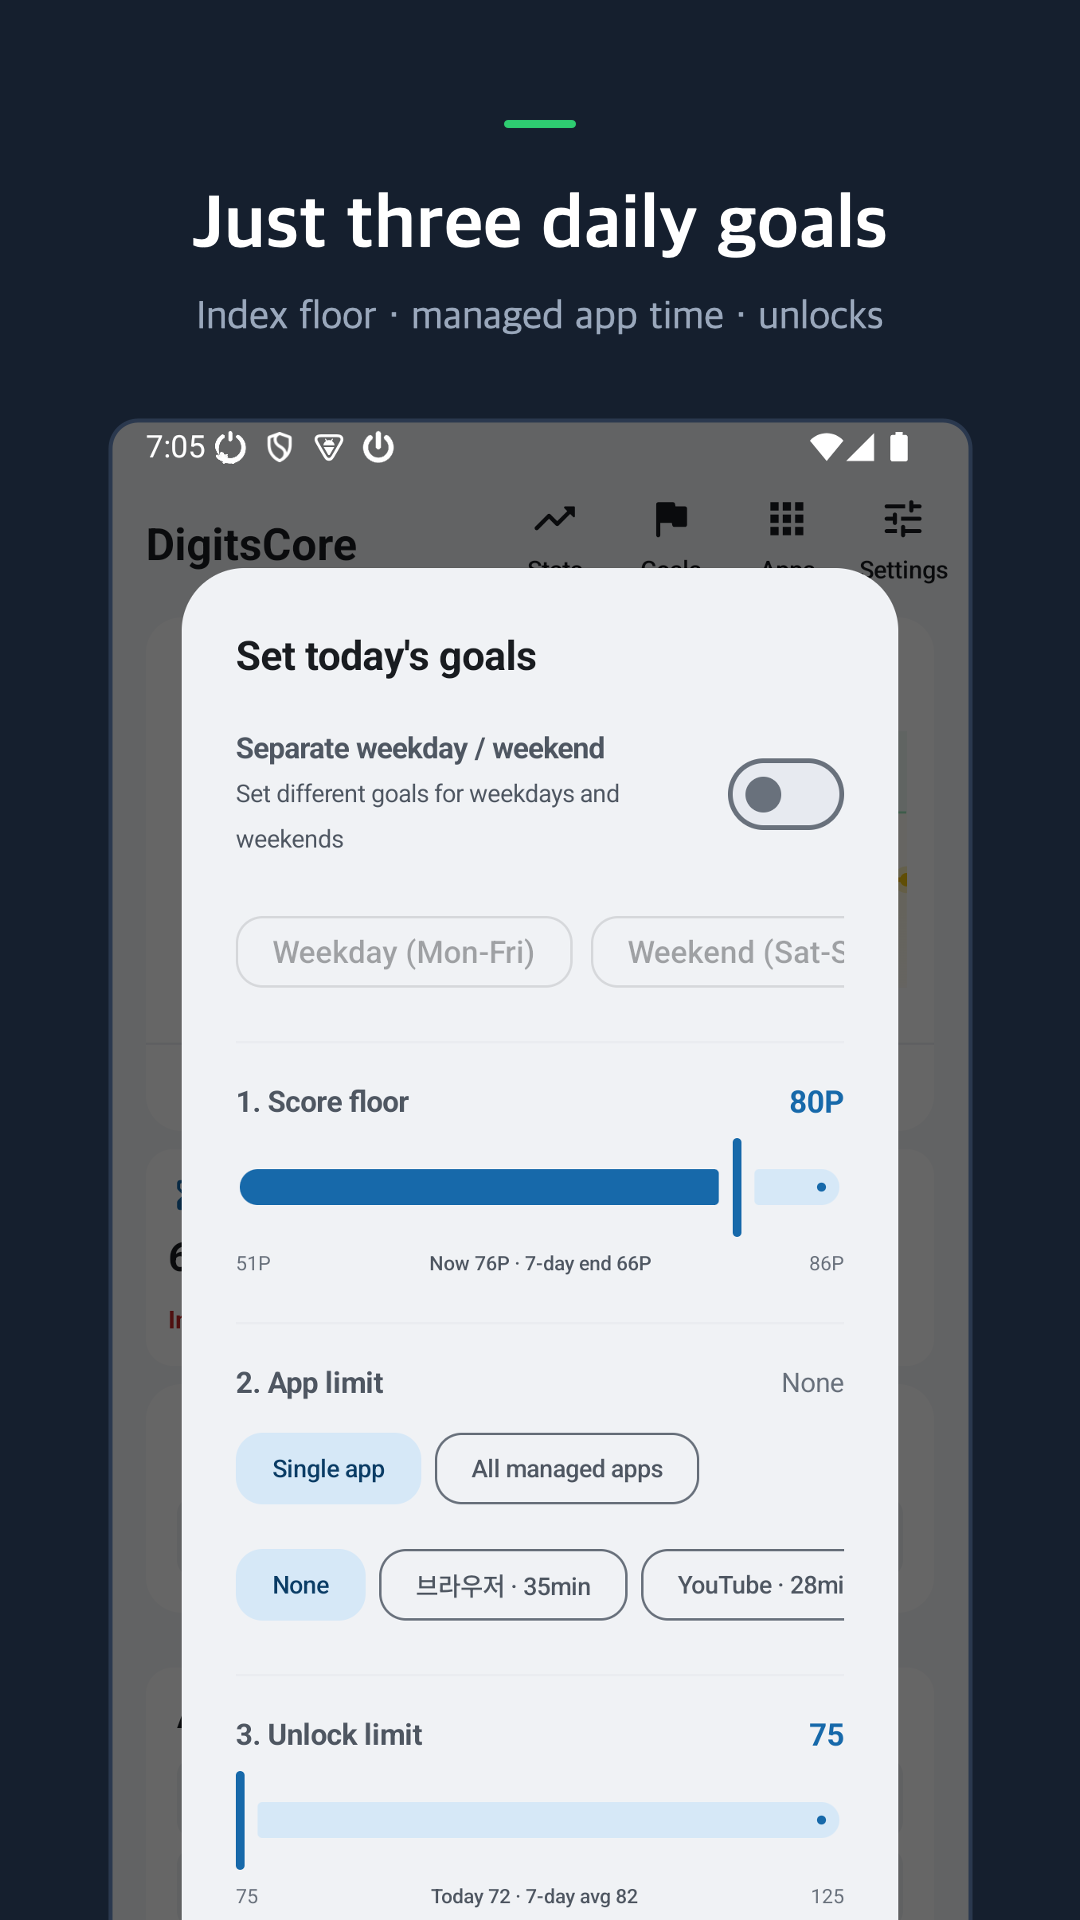
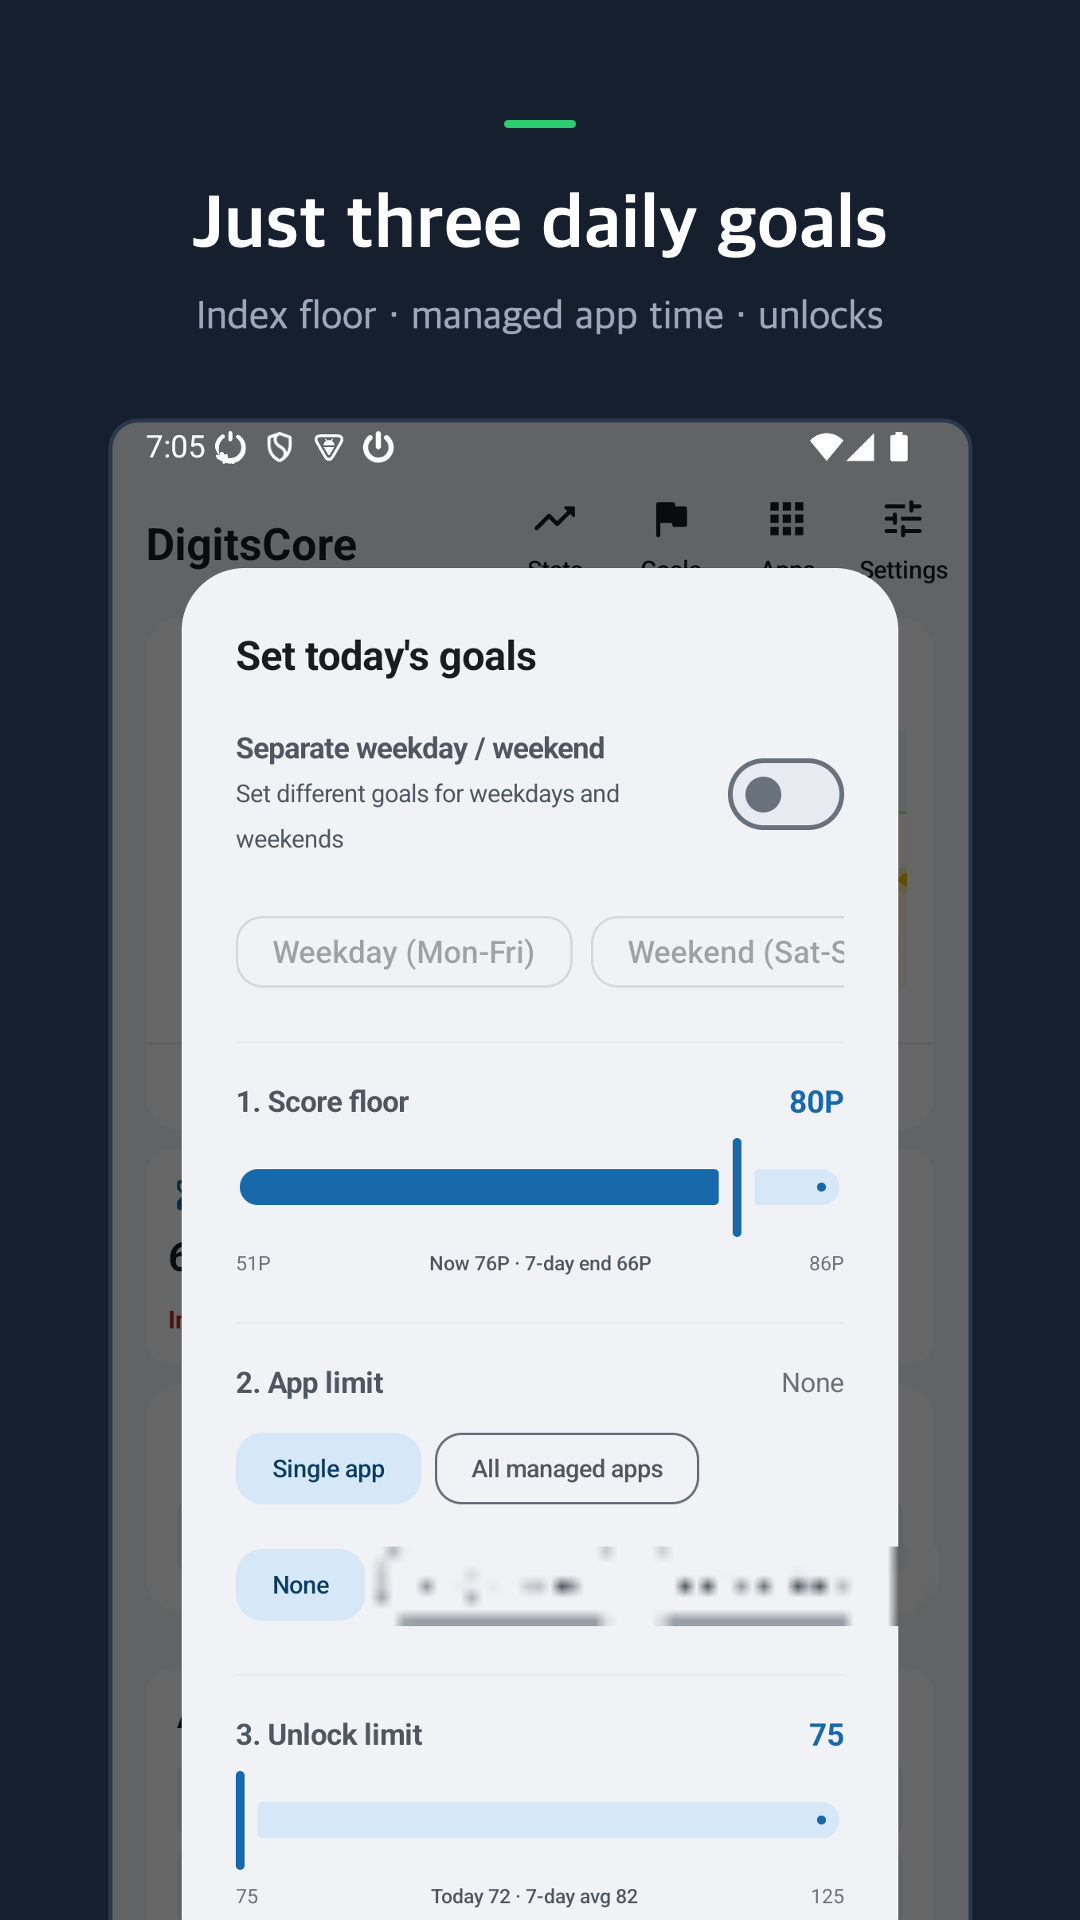
store: 스크린샷의 앱 이름 등 개인 기록을 흐리게 가림 (blur.txt 영역)

Changed region(s): [[0.3361, 0.8125, 0.7944, 0.8438], [0.825, 0.8125, 0.8556, 0.8438]]

diff --git a/scripts/store/CaptionScreenshots.java b/scripts/store/CaptionScreenshots.java
@@ -1,7 +1,18 @@
-import java.awt.*;
+import java.awt.BasicStroke;
+import java.awt.Color;
+import java.awt.Font;
+import java.awt.Graphics2D;
+import java.awt.GraphicsEnvironment;
+import java.awt.RenderingHints;
+import java.awt.Shape;
 import java.awt.geom.RoundRectangle2D;
 import java.awt.image.BufferedImage;
 import java.io.File;
+import java.nio.file.Files;
+import java.util.ArrayList;
+import java.util.HashMap;
+import java.util.List;
+import java.util.Map;
 import javax.imageio.ImageIO;
 
 /**
@@ -10,6 +21,8 @@ import javax.imageio.ImageIO;
  * 출력: store_assets/screenshots/{ko,en}/01.png ~ 04.png
  * 실행: java scripts/store/CaptionScreenshots.java   (저장소 루트에서, JDK 17)
  * 앞 2장이 설치 전환에 가장 크게 영향을 주므로 핵심 문구를 앞에 둡니다.
+ * 앱 이름 같은 개인 기록은 store_assets/screenshots/blur.txt 에 적은 영역(원본 좌표)을 흐리게 가립니다.
+ *   한 줄 형식: ko/01 x y w h
  */
 public class CaptionScreenshots {
     static final int W = 1080, H = 1920;
@@ -34,6 +47,7 @@ public class CaptionScreenshots {
 
     public static void main(String[] args) throws Exception {
         String font = pickFont();
+        Map<String, List<int[]>> blur = readBlur(new File("store_assets/screenshots/blur.txt"));
         for (String lang : new String[]{"ko", "en"}) {
             String[][] captions = lang.equals("ko") ? KO : EN;
             File outDir = new File("store_assets/screenshots/" + lang);
@@ -42,7 +56,9 @@ public class CaptionScreenshots {
                 String name = String.format("%02d.png", i + 1);
                 File raw = new File("store_assets/screenshots/raw/" + lang + "/" + name);
                 if (!raw.exists()) { System.out.println("건너뜀(원본 없음): " + raw); continue; }
-                BufferedImage out = compose(ImageIO.read(raw), captions[i][0], captions[i][1], font);
+                BufferedImage shot = ImageIO.read(raw);
+                for (int[] r : blur.getOrDefault(lang + "/" + String.format("%02d", i + 1), List.of())) blurRect(shot, r);
+                BufferedImage out = compose(shot, captions[i][0], captions[i][1], font);
                 ImageIO.write(out, "png", new File(outDir, name));
                 System.out.println("생성: " + new File(outDir, name));
             }
@@ -80,6 +96,35 @@ public class CaptionScreenshots {
         g.draw(clip);
         g.dispose();
         return img;
+    }
+
+    static Map<String, List<int[]>> readBlur(File f) throws Exception {
+        Map<String, List<int[]>> m = new HashMap<>();
+        if (!f.exists()) return m;
+        for (String line : Files.readAllLines(f.toPath())) {
+            line = line.trim();
+            if (line.isEmpty() || line.startsWith("#")) continue;
+            String[] t = line.split("\\s+");
+            m.computeIfAbsent(t[0], k -> new ArrayList<>()).add(new int[]{
+                Integer.parseInt(t[1]), Integer.parseInt(t[2]), Integer.parseInt(t[3]), Integer.parseInt(t[4])});
+        }
+        return m;
+    }
+
+    /** 영역을 작게 줄였다 다시 키워 글자를 알아볼 수 없게 흐립니다. */
+    static void blurRect(BufferedImage img, int[] r) {
+        int x = r[0], y = r[1], w = r[2], h = r[3];
+        BufferedImage part = img.getSubimage(x, y, w, h);
+        int sw = Math.max(1, w / 14), sh = Math.max(1, h / 14);
+        BufferedImage small = new BufferedImage(sw, sh, BufferedImage.TYPE_INT_RGB);
+        Graphics2D gs = small.createGraphics();
+        gs.setRenderingHint(RenderingHints.KEY_INTERPOLATION, RenderingHints.VALUE_INTERPOLATION_BILINEAR);
+        gs.drawImage(part, 0, 0, sw, sh, null);
+        gs.dispose();
+        Graphics2D g = img.createGraphics();
+        g.setRenderingHint(RenderingHints.KEY_INTERPOLATION, RenderingHints.VALUE_INTERPOLATION_BILINEAR);
+        g.drawImage(small, x, y, w, h, null);
+        g.dispose();
     }
 
     static void drawCentered(Graphics2D g, String text, Font f, Color c, int baseline) {
